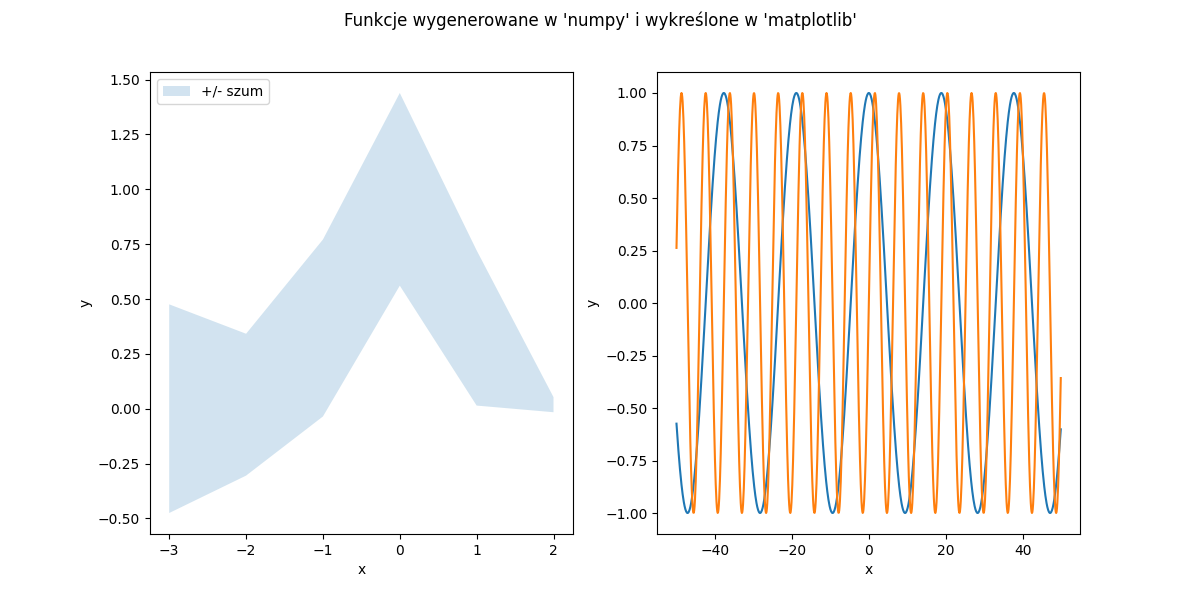
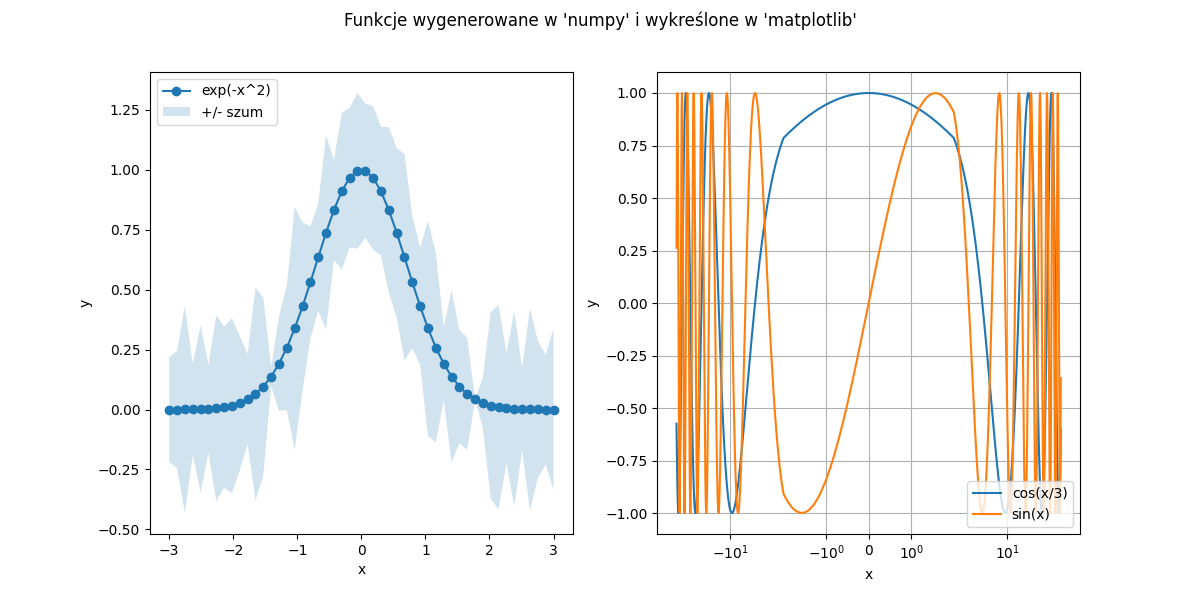
Finished file- all graphs correct and checked.

diff --git a/plotting_figure.py b/plotting_figure.py
@@ -11,12 +11,12 @@ fig, ax = plt.subplots(nrows=1, ncols=2, figsize=(12, 6))
 # x to dziedzina: 50 próbek z zakresu [-3, 3] wygenerowanych liniowo
 # y to exp(-x^2)
 # y_err to szum pochodzący z rozkładu normalnego o zadanych parametrach
-x = np.arange(-3,3,dtype=float)
+x = np.linspace(-3,3,dtype=float)
 y = np.exp(-x**2)
 y_err = np.random.normal(loc=np.mean(y), scale=0.1, size=len(y))
 
 # Zaznaczamy x, y oraz obszar szumu wokół funkcji
-# ax[0].plot(...)
+ax[0].plot(x, y, label="exp(-x^2)", marker='o')
 ax[0].fill_between(x, y - y_err, y + y_err, alpha=0.2, label="+/- szum")
 
 # Dodajemy oznaczenia osi i legendę na górze po lewej stronie
@@ -37,13 +37,13 @@ ax[1].plot(x, y_2, label="sin(x)")
 
 # Ustawiamy skalę osi x na symetryczną-logarytmiczną oraz dodajemy siatkę w
 # tle kreślonych krzywych
-# ax[1]...
-# ax[1]...
+ax[1].set_xscale('symlog')
+ax[1].grid(True)
 
 # Dodajemy oznaczenia osi i legendę na dole po prawej stronie
 ax[1].set_xlabel("x")
 ax[1].set_ylabel("y")
-# ax[1]...
+ax[1].legend(loc="lower right")
 
 # Dodajemy tytuł
 plt.suptitle("Funkcje wygenerowane w 'numpy' i wykreślone w 'matplotlib'")
